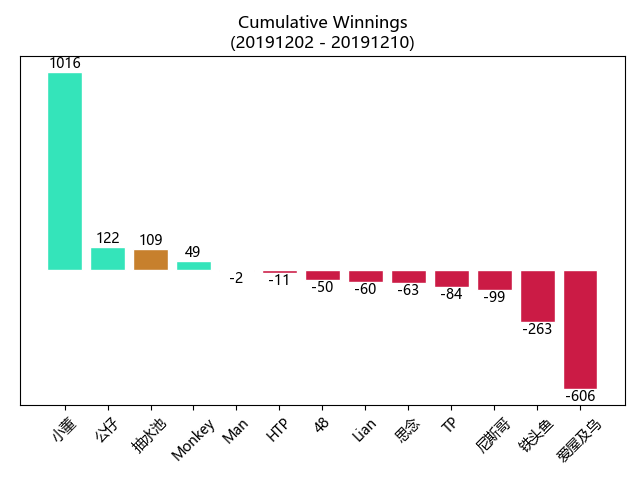
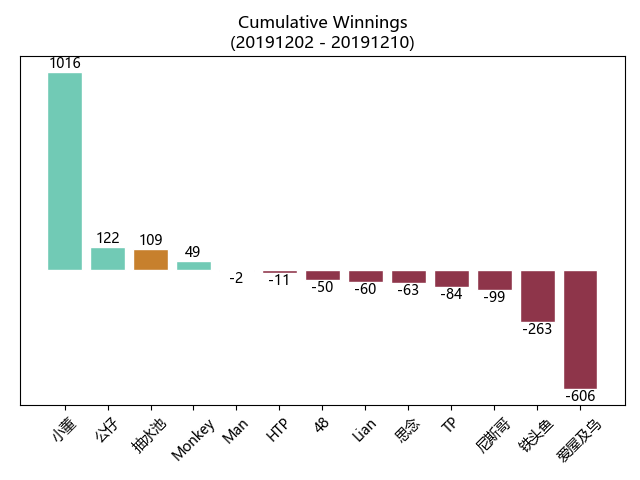
add consume

Changed region(s): [[0.4062, 0.5625, 0.9375, 0.8125], [0.0625, 0.125, 0.2188, 0.5625], [0.2812, 0.5312, 0.3438, 0.5625]]

diff --git a/process.py b/process.py
@@ -33,23 +33,28 @@ def load_data():
     return mydicts
 
 
+# update data and generate daily report
 def update_data(date: str, **kwargs):
     assert date not in all_data, 'There exists a record on {}, pls check the date!'.format(date)
     consume = abs(kwargs.pop('consume', 0))
     assert sum(kwargs.values()) == 0, 'The sum profits is {}, not zero!'.format(sum(kwargs.values()))
 
     new_row = {}
+    if consume > 0:
+        new_row['consume'] = consume
     for k, v in kwargs.items():
         assert k in headers, 'Player {} is not registered, pls check the name!'.format(k)
         new_row[k] = v
-    new_pool = list(all_data.values())[-1]['pool'] + kwargs.pop('pool', 0) - consume
+    daily_report(date, new_row)
+    new_pool = list(all_data.values())[-1]['pool'] + new_row.get('pool', 0) - consume
     new_row['pool'] = round(new_pool, 1)
     all_data[date] = deepcopy(new_row)
-    print('Updated data of {}.'.format(date))
+
     new_row['Date'] = date
     with open(data_file, 'a', newline='') as f:
         writer = csv.DictWriter(f, fieldnames=headers)
         writer.writerow(new_row)
+        print('Updated data of {}.'.format(date))
 
 
 def _draw_bar(data: dict, title1: str, title2: str, filepath: str):
@@ -59,8 +64,11 @@ def _draw_bar(data: dict, title1: str, title2: str, filepath: str):
                  else display_names.get(name, name) for name in names]
     up_color, down_color = random.choice(list(zip(green_colors, red_colors)))
     colors = [up_color if profit > 0 else down_color for profit in profits]
-    if 'pool' in names:
+    try:
         colors[names.index('pool')] = yellow_color
+        colors[names.index('consume')] = yellow_color
+    except:
+        pass
 
     plt.title('{}\n({})'.format(title1, title2))
     plt.bar(nicknames, profits, edgecolor='white', color=colors)
@@ -80,13 +88,16 @@ def _draw_bar(data: dict, title1: str, title2: str, filepath: str):
     plt.close()
 
 
-def daily_report(date: str):
-    assert date in all_data, 'No record on {}, cannot generate daily report!'.format(date)
+def daily_report(date: str, data: dict):
+    non_player_count = 0
+    for key in data.keys():
+        if key in non_players:
+            non_player_count += 1
 
     title1 = '{} Daily Report'.format(date)
-    title2 = '{} players'.format(len(all_data[date]) - 1)
+    title2 = '{} players'.format(len(data) - non_player_count)
     filepath = os.path.join('daily', '{}.png'.format(date))
-    _draw_bar(all_data[date], title1, title2, filepath)
+    _draw_bar(data, title1, title2, filepath)
 
 
 def cumulative_report(dates: list, month='201911', monthly=False):
@@ -94,12 +105,11 @@ def cumulative_report(dates: list, month='201911', monthly=False):
     assert len(mydates) >= 2, 'Less than 2 days in month {}, cannot generate cumulative report!'.format(month)
 
     mydicts = [all_data[date] for date in mydates]
-    sum_dict = {}
+    sum_dict = {'pool': list(all_data.values())[-1]['pool']}
     for mydict in mydicts:
         for k, v in mydict.items():
-            if k != 'pool':
+            if k not in non_players:
                 sum_dict[k] = sum_dict.get(k, 0) + v
-    sum_dict['pool'] = list(all_data.values())[-1]['pool']
 
     title1 = '{}Cumulative Winnings'.format('' if len(month) == 6 else 'Total ')
     title2 = '{} - {}'.format(mydates[0], mydates[-1])
@@ -122,7 +132,6 @@ def cumulative_report(dates: list, month='201911', monthly=False):
 
 def generate_reports(total_report=False):
     dates = list(all_data.keys())
-    daily_report(dates[-1])
     cumulative_report(dates, month='201912', monthly=False)
     if total_report:
         cumulative_report(dates, month='2019')
@@ -131,6 +140,6 @@ def generate_reports(total_report=False):
 if __name__ == '__main__':
     all_data = load_data()
     # update_data('20191209', Denn=237, TP=62, XJ=-248, Man=-135, Monkey=84, pool=39)
-    # update_data(yesterday, XJ=84, XZ=-120, Denn=209, Six=-372, Yi=66, Man=133, pool=48)
+    # update_data(yesterday, XJ=-406, XZ=-164, Denn=308, Six=-366, Yi=159, Man=444, JX=53, HTP=-103, TP=292, Monkey=-400, pool=183, consume=166)
     # update_data(today, ..., pool=26, consume=156)
-    generate_reports()
+    generate_reports(total_report=False)

diff --git a/constants.py b/constants.py
@@ -8,12 +8,13 @@ import datetime
 
 today = datetime.date.today().strftime('%Y%m%d')
 yesterday = (datetime.date.today() - datetime.timedelta(days=1)).strftime('%Y%m%d')
-data_file = 'data.csv'
+data_file = 'data\\data.csv'
 
 headers = ['Date', 'Daxia', 'Denn', 'Bo', 'HTP', 'JX', 'Lian', 'Linq',
-           'Man', 'Monkey', 'TP', 'Six', 'XJ', 'XZ', 'Yi', 'ZH', 'pool']
+           'Man', 'Monkey', 'TP', 'Six', 'XJ', 'XZ', 'Yi', 'consume', 'pool']
+non_players = headers[-2:]
 display_names = {'Daxia': '夜雨', 'XJ': '爱屋及乌', 'XZ': '48', 'Six': '铁头鱼',
-                 'Yi': '公仔', 'JX': '小董', 'Denn': '尼斯哥', 'Bo': '思念', 'pool': '抽水池'}
+                 'Yi': '公仔', 'JX': '小董', 'Denn': '尼斯哥', 'Bo': '思念'}
 study_abroad = []
 
 green_colors = ['#24b292', '#0a6955', '#0b5846', '#073c32', '#71cab5',
